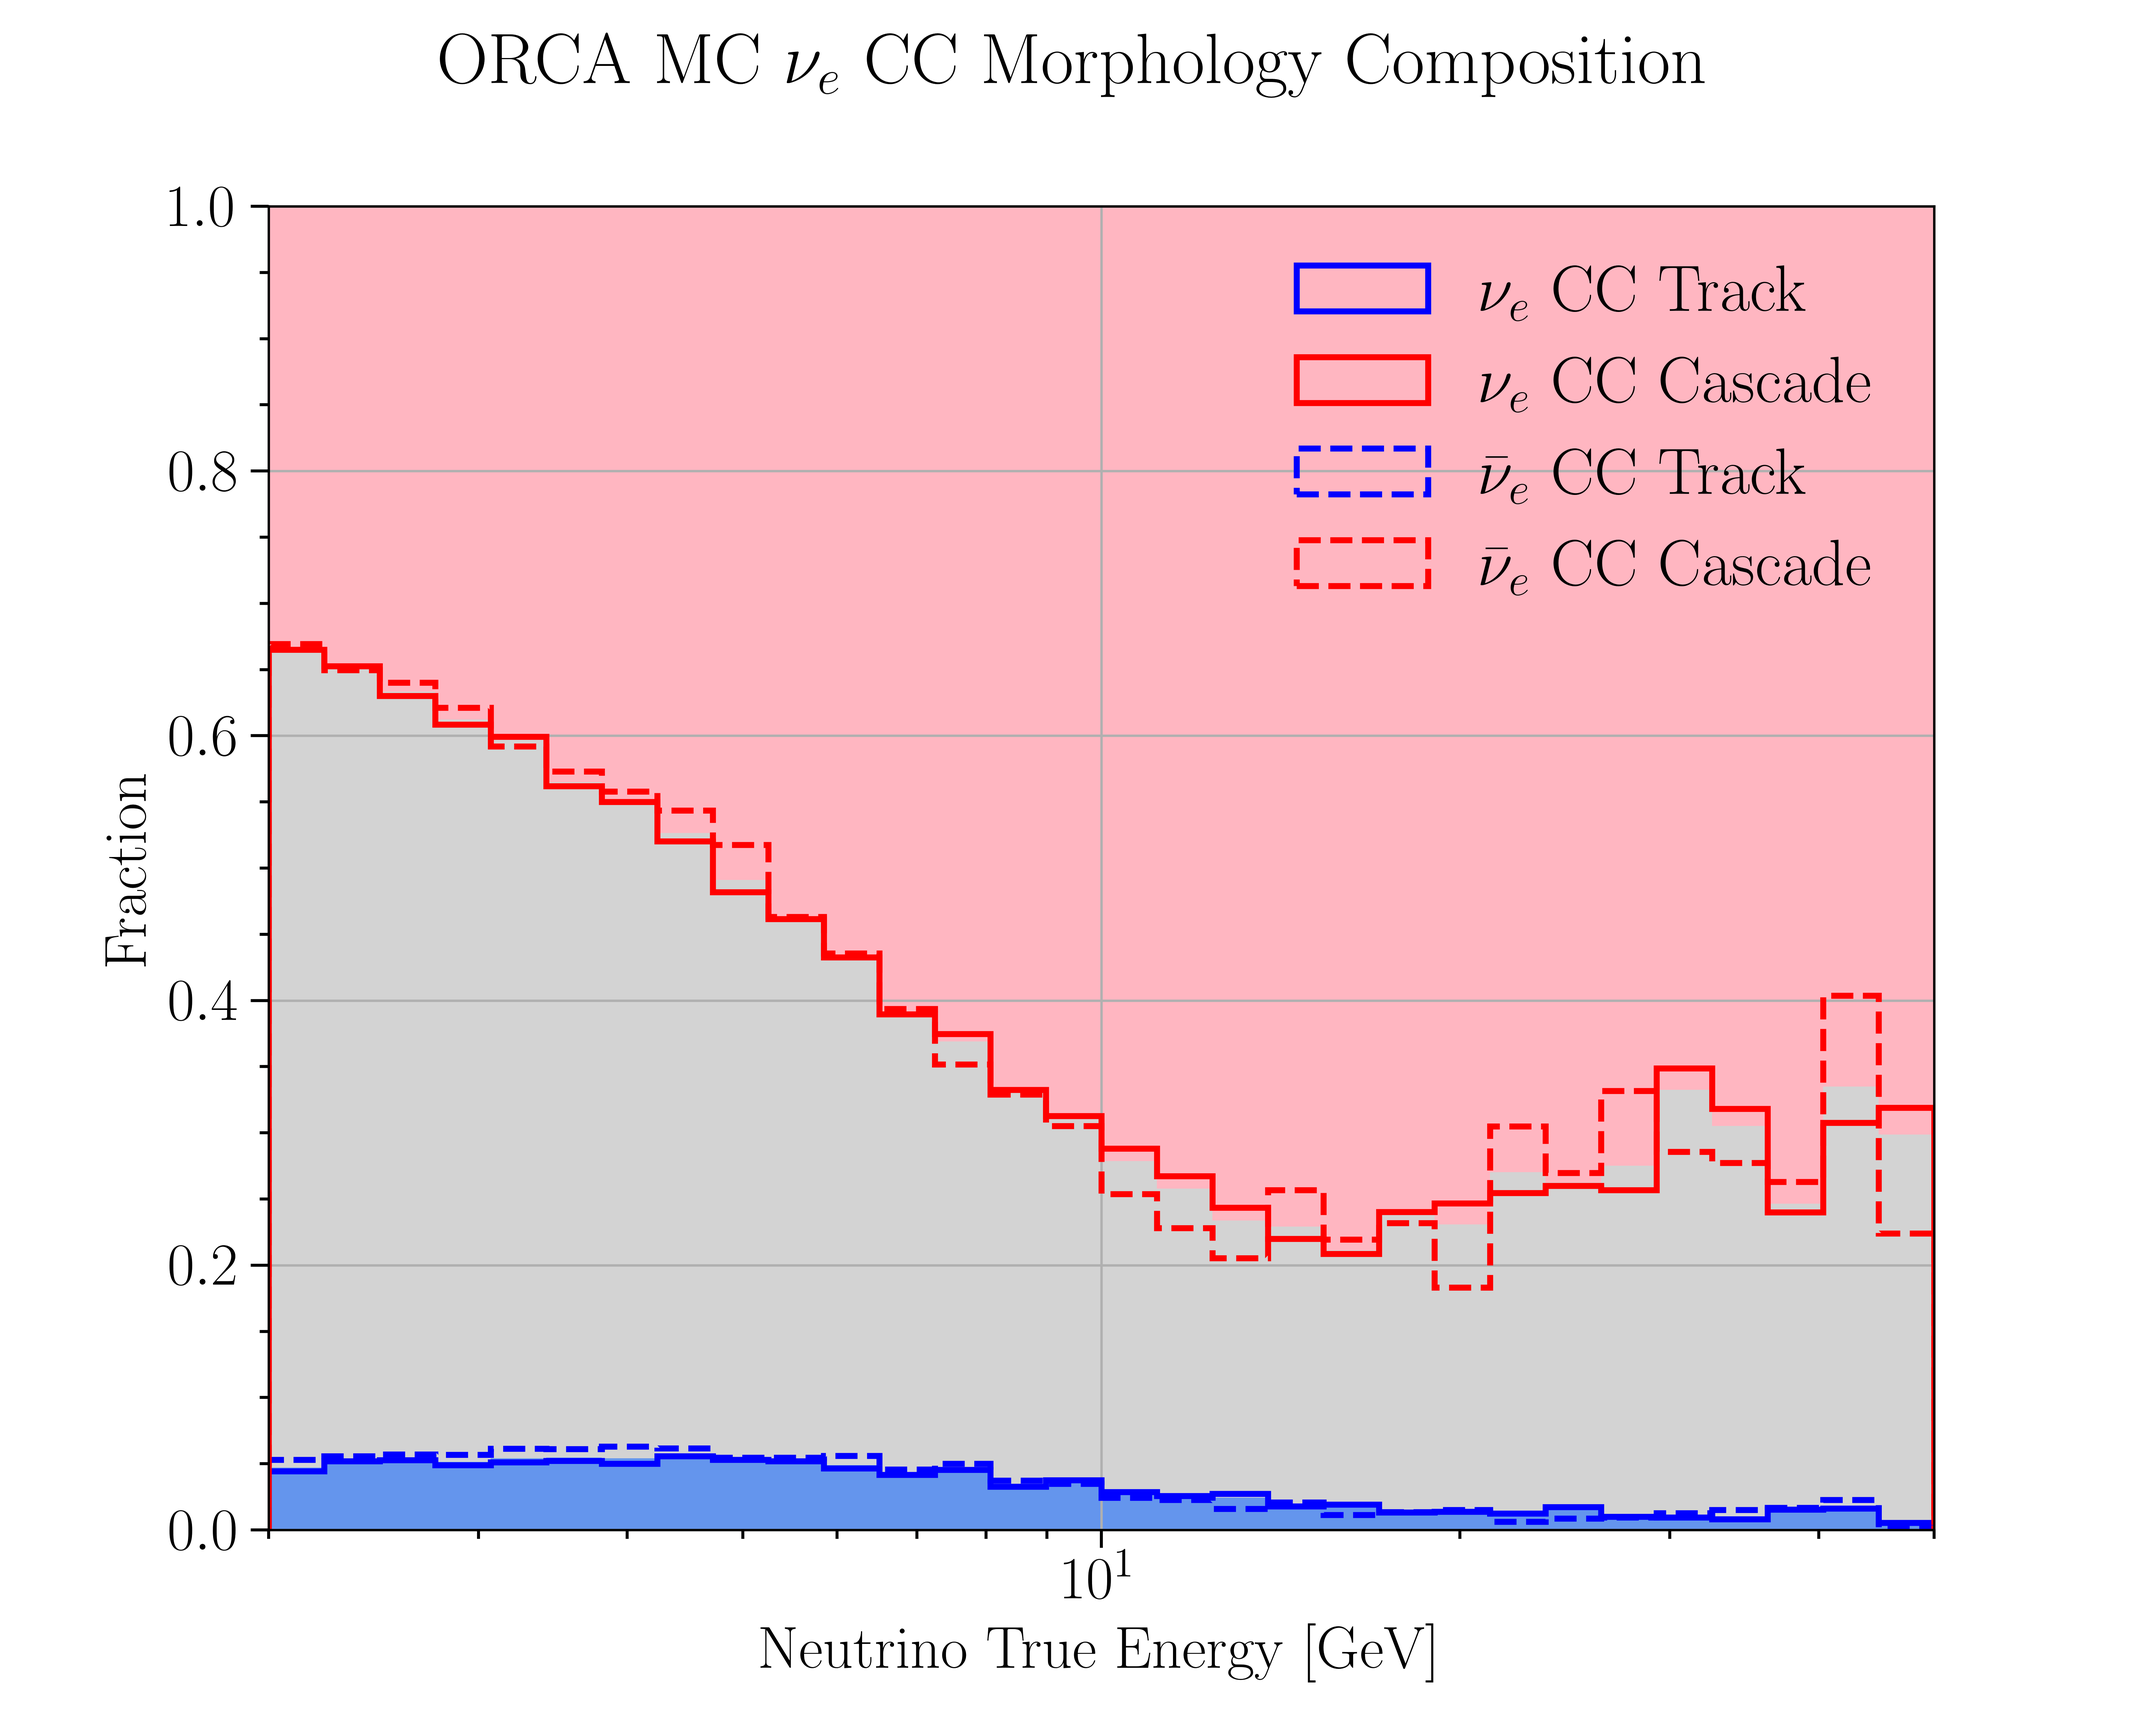
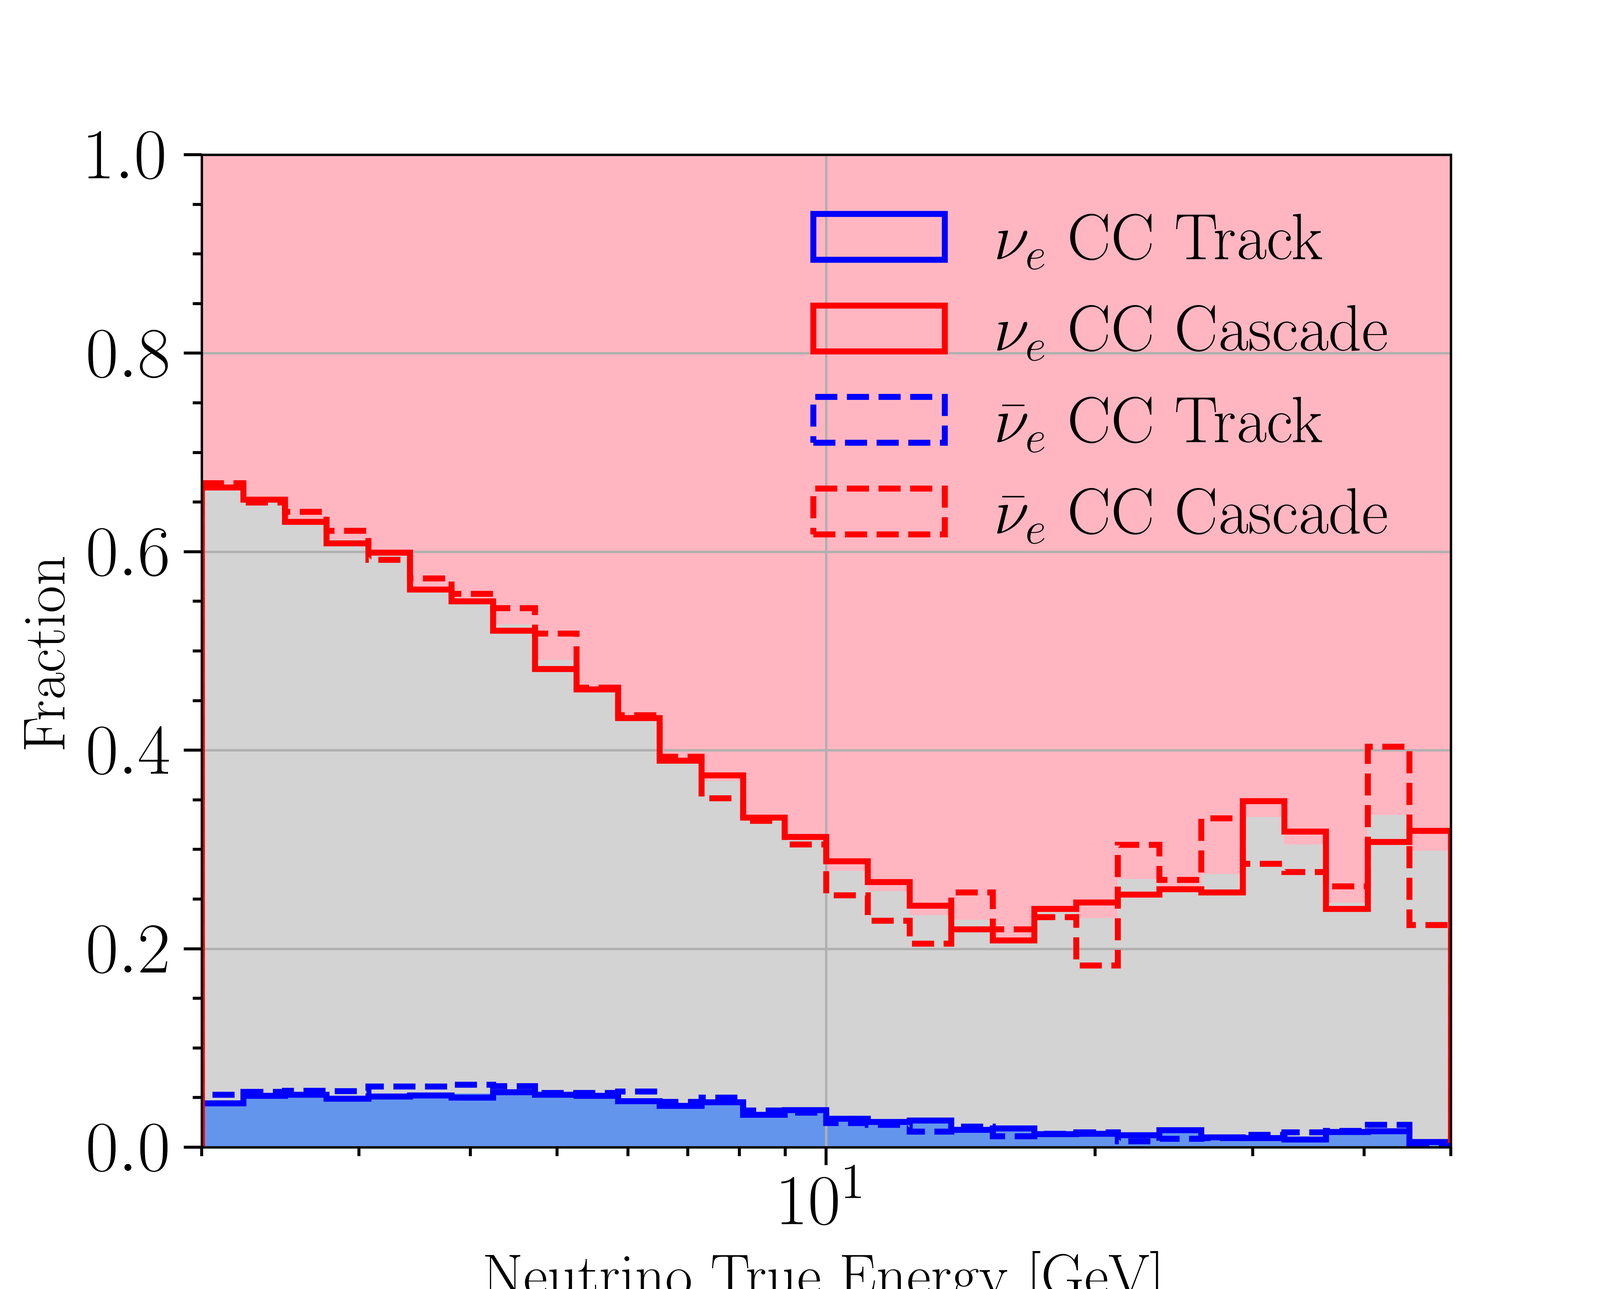
final update before meeting

diff --git a/sources/NewAnalysis/ORCAplot.py b/sources/NewAnalysis/ORCAplot.py
@@ -200,19 +200,19 @@ def ORCA_topology_details(flavor, current):
 	# df = pd.DataFrame(df_array.T, columns = ["nu_cas", "nu_track", "nubar_cas", "nubar_track"])
 	# df.to_csv("nu{}_{}_Topology_Fraction".format(flavname, curname))
 
-	fig, ax = plt.subplots(figsize=(10,8))
-	if flavname == "e":
-		if curname == "CC":
-			fig.suptitle(r"ORCA MC $\nu_e$ CC Morphology Composition")
-	elif flavname == "mu":
-		if curname == "CC":
-			fig.suptitle(r"ORCA MC $\nu_\mu$ CC Morphology Composition")
-	elif flavname == "tau":
-		if curname == "CC":
-			fig.suptitle(r"ORCA MC $\nu_\tau$ CC Morphology Composition")
+	fig, ax = plt.subplots(figsize=(7.5,6))
+	# if flavname == "e":
+	# 	if curname == "CC":
+	# 		fig.suptitle(r"ORCA MC $\nu_e$ CC Morphology Composition")
+	# elif flavname == "mu":
+	# 	if curname == "CC":
+	# 		fig.suptitle(r"ORCA MC $\nu_\mu$ CC Morphology Composition")
+	# elif flavname == "tau":
+	# 	if curname == "CC":
+	# 		fig.suptitle(r"ORCA MC $\nu_\tau$ CC Morphology Composition")
 	
-	if curname == "NC":
-		fig.suptitle(r"ORCA MC NC Morphology Composition")
+	# if curname == "NC":
+	# 	fig.suptitle(r"ORCA MC NC Morphology Composition")
 	
 
 	# first the neutrino ones

diff --git a/sources/ORCA/fluxplot.py b/sources/ORCA/fluxplot.py
@@ -90,7 +90,7 @@ SKweights = np.array([27000])
 
 
 # start plotting
-fig, [ax2, ax] = plt.subplots(figsize = (13, 20), ncols = 1, nrows = 2, gridspec_kw = {'height_ratios':[1, 2]}, sharex = True)
+fig, [ax2, ax] = plt.subplots(figsize = (8, 17), ncols = 1, nrows = 2, gridspec_kw = {'height_ratios':[1, 2]}, sharex = True)
 ax.set_yscale("log")
 ax.set_xscale("log")
 ax.set_xlabel(r"Energy [GeV]")
@@ -130,13 +130,13 @@ ax2.hist(ORCA.e_bin[:-1], ORCA.e_bin, weights = ORCA.evol + ORCA.ebarvol + ORCA.
 ax2.hist(SKbins[:-1], SKbins, weights = SKweights, label=r"Super-K Effective Volume", lw = 0, alpha = 0.3)
 
 ax2.set_yscale('log')
-ax2.legend(fontsize = 16)
+ax2.legend(fontsize = 14)
 
 # set the x axis range
-ax.set_xlim(10**(-1), 3*10**5)
+ax.set_xlim(10**(-1), 1.5 * 10 ** 2)
 
-ax.legend(loc = 1, fontsize = 18)
-plt.subplots_adjust(hspace=0.05)
+ax.legend(loc = 3, fontsize = 14)
+plt.subplots_adjust(hspace=0.03)
 # plt.show()
 plt.savefig("./new_paper_plots/Flux_range_plot", bbox_inches = 'tight', pad_inches = 0.4)
 

diff --git a/sources/ORCA/paper.py b/sources/ORCA/paper.py
@@ -974,7 +974,7 @@ def ORCA_zenith_resolution():
     # plt.show()
     plt.savefig("./new_paper_plots/Zenith_Resolution.png", bbox_inches = 'tight', pad_inches = 0.3)
 
-ORCA_zenith_resolution()
+# ORCA_zenith_resolution()
 
 def range_zenith_resolution():
     zen_true = ORCA["true_zenith"]
@@ -1078,8 +1078,8 @@ def effective_volumes():
     ax2.set_xlim(1, 50)
     ax2.grid(True)
     ax2.legend(loc = 2, fontsize = 16)
-    ax1.tick_params(axis='both', which='major', labelsize=18)
-    ax2.tick_params(axis='both', which='major', labelsize=18)
+    # ax1.tick_params(axis='both', which='major', labelsize=18)
+    # ax2.tick_params(axis='both', which='major', labelsize=18)
 
     plt.subplots_adjust(wspace=0.3)
     ax2.title.set_text("ORCA")
@@ -1089,4 +1089,4 @@ def effective_volumes():
     plt.savefig("./new_paper_plots/Effective_Volumes.png", bbox_inches = 'tight', pad_inches = 0.2)
     plt.close()
 
-# effective_volumes() 
+effective_volumes() 

diff --git a/sources/NewAnalysis/paper.py b/sources/NewAnalysis/paper.py
@@ -171,7 +171,7 @@ def reco_event_distribution():
 	ax1.set_xlim(1.85, 50)
 	ax1.set_ylabel("Total Event Count [3 yrs]")
 	ax1.set_xticks([1.85, 10, 50])
-	plt.subplots_adjust(wspace=0.5)
+	plt.subplots_adjust(wspace=0.3)
 	# ax.grid(True)
 	ax1.legend(fontsize = 18)
 	plt.show()
